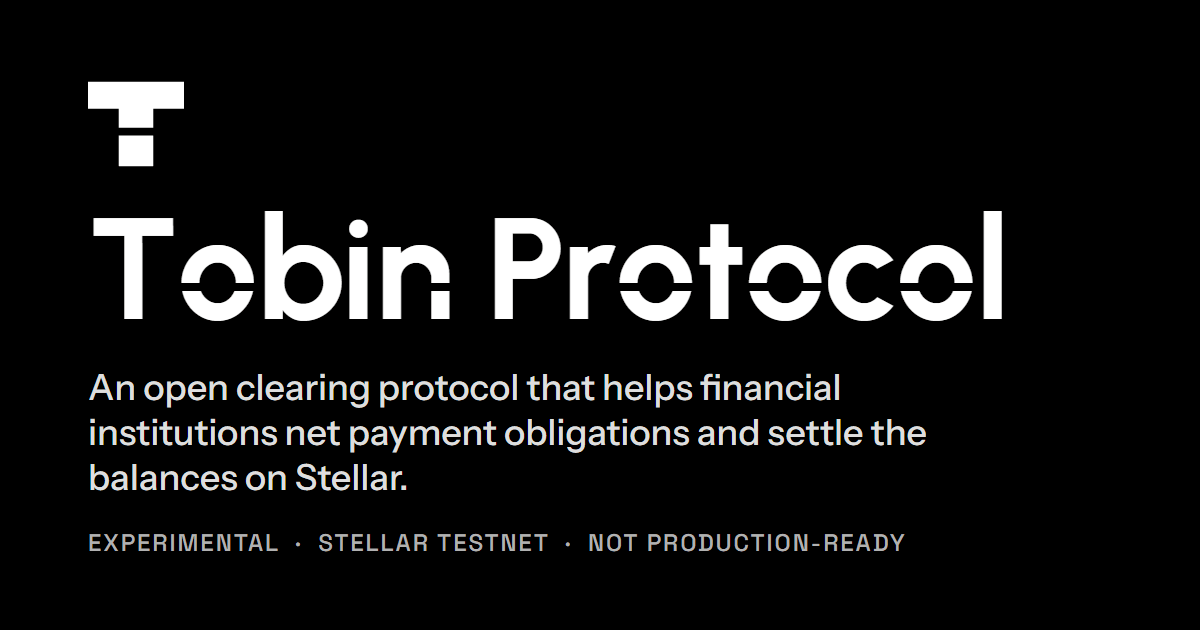
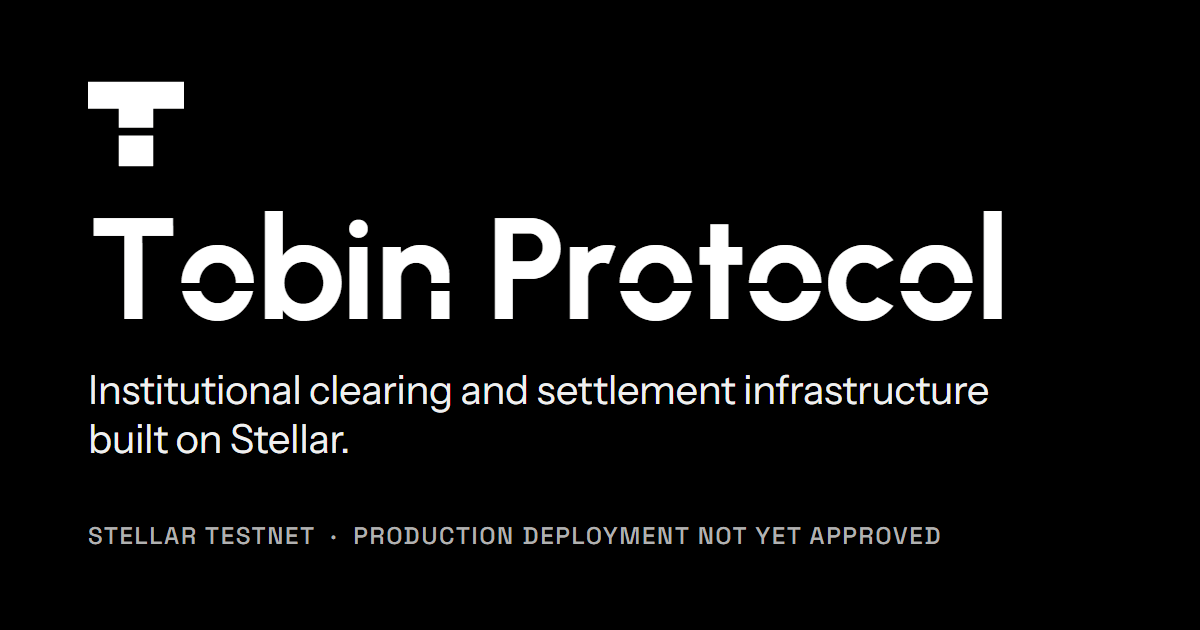
docs(landing): regenerate the social card with the current positioning
The Open Graph and Twitter cards (identical files) still read 'An open
clearing protocol' and 'Experimental, Not production-ready'. The mark and
wordmark pixels are kept; the description and status line are re-rendered.
Alt text and the asset provenance note are updated.

Changed region(s): [[0.0617, 0.573, 0.8325, 0.7841], [0.0617, 0.8143, 0.8017, 0.8746]]

diff --git a/apps/landing/ASSET-CREDITS.md b/apps/landing/ASSET-CREDITS.md
@@ -16,7 +16,7 @@ inspecting the pixels. A name inferred from a filename is labelled as inferred.
 | `public/cta/cta-street.jpg` | A Brooklyn street framing the Manhattan Bridge (inferred from the scene), resized to 2000 px wide. | The source file was named `redd-francisco-wOj5odhDOZ0-unsplash.jpg` (6000 x 3375). The `-unsplash` suffix and photo id wOj5odhDOZ0 are in the name; the photographer "Redd Francisco" is inferred from the name. | "Redd Francisco" (inferred) | Not verified. No page URL was recorded. | **Unverified** |
 | `public/illustrations/how/cut-submit.webp`, `cut-group.webp`, `cut-net.webp`, `cut-sign.webp`, `cut-settle.webp` | Five abstract glass-and-dot illustrations for the "How it works" steps, with transparent backgrounds. | Converted from PNG files named `how-N-<step>-removebg-preview.png`, supplied by the project owner. The name suggests a background-removal tool was applied to the `how-N-<step>.jpg` originals. The images contain no text, people or logos. | Unknown | Not known. How the originals were made (a commissioned design, a generator or something else) is not recorded. | **Unverified** |
 | `public/icon-192.png`, `icon-512.png`, `icon-maskable-512.png`; `src/app/icon.svg`, `favicon.ico`, `apple-icon.png` | The "T with a break" mark on a black tile. | Generated by `scripts/build-brand-icons.mjs` from a path defined in `src/components/BrandMark.tsx`. | This repository (created for the project) | Reserved brand asset; see [NOTICE](NOTICE). | Original to the project |
-| `src/app/opengraph-image.png`, `twitter-image.png` | The social preview card (T mark, name, one line of text). | Generated for this repository from the mark above and the page fonts (see [NOTICE](NOTICE)). | This repository | Reserved brand asset; see [NOTICE](NOTICE). | Original to the project |
+| `src/app/opengraph-image.png`, `twitter-image.png` | The social preview card (T mark, name, one line of text). | Generated for this repository from the mark above and the page fonts (see [NOTICE](NOTICE)). Regenerated 2026-11-08: the mark and wordmark pixels of the earlier card were kept and the two text lines (description and status line) were re-rendered in Instrument Sans and Space Grotesk to match the current positioning. The two files are identical. | This repository | Reserved brand asset; see [NOTICE](NOTICE). | Original to the project |
 
 ## Edits made to the shipped media
 
